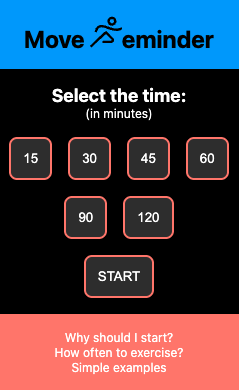
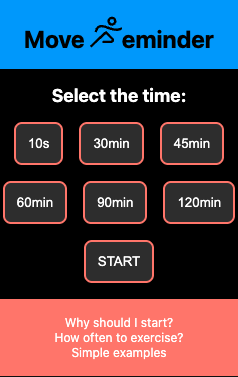
Popup update, quicker reminder to test (10sec)

diff --git a/popup.html b/popup.html
@@ -8,14 +8,13 @@
         <h1>Move <img src="./images/R.svg">eminder</h1>
         <div class="timeCheck">
             <h2>Select the time:</h2>
-            <p>(in minutes)</p>
             <div id="buttonOuter" class="buttonWrapper">
-                <button value="900000">15</button>
-                <button value="1800000">30</button>
-                <button value="2700000">45</button>
-                <button value="3600000">60</button>
-                <button value="5400000">90</button>
-                <button value="7200000">120</button>
+                <button value="10000">10s</button>
+                <button value="1800000">30min</button>
+                <button value="2700000">45min</button>
+                <button value="3600000">60min</button>
+                <button value="5400000">90min</button>
+                <button value="7200000">120min</button>
             </div>
         </div>
         <div>

diff --git a/popup.js b/popup.js
@@ -20,7 +20,10 @@ startBtn.addEventListener('click', () =>{
     outer.style.display = "none";
     popup.style.display = 'block';
     let timer = passedVal/60000;
-    innerPopup.innerHTML = `Your reminder will pop up in ${timer} minutes!`
+    if(timer > 1)
+        {innerPopup.innerHTML = `Your reminder will pop up in ${timer} minutes!`}
+    else
+        {innerPopup.innerHTML = `Your reminder will pop up in 10 seconds!`}
 
 
 })

diff --git a/sandbox.js b/sandbox.js
@@ -1,13 +1,1 @@
-// function myFunction() {
-//     chrome.storage.local.get(["myVariable"], ({ myVariable }) => {
-//       console.log('myVariable is' + myVariable);
-//       setTimeout(() => {
-//         console.log('sandbox reminder');
-//         alert('Quick reminder!');
-//     }, myVariable);
-//     });
-//   }
-// myFunction();
-
-
-alert('Quick reminder TWO!')
+alert('Quick reminder! Do some exercise!')

diff --git a/options.html b/options.html
@@ -7,7 +7,8 @@
     <title>Document</title>
 </head>
 <body>
-    <h1>Why you should start?</h1>
-    <h1>How</h1>
+    <p>Why you should start?</p>
+    <p>How often to exercise?</p>
+    <p>Simple examples</p>
 </body>
 </html>

diff --git a/stylesheet.css b/stylesheet.css
@@ -23,7 +23,7 @@ body{
     height: 2rem;
   }
   h2{
-    margin-top: 1rem;
+    margin-block: 1rem;
   }
 
   .timeCheck{
